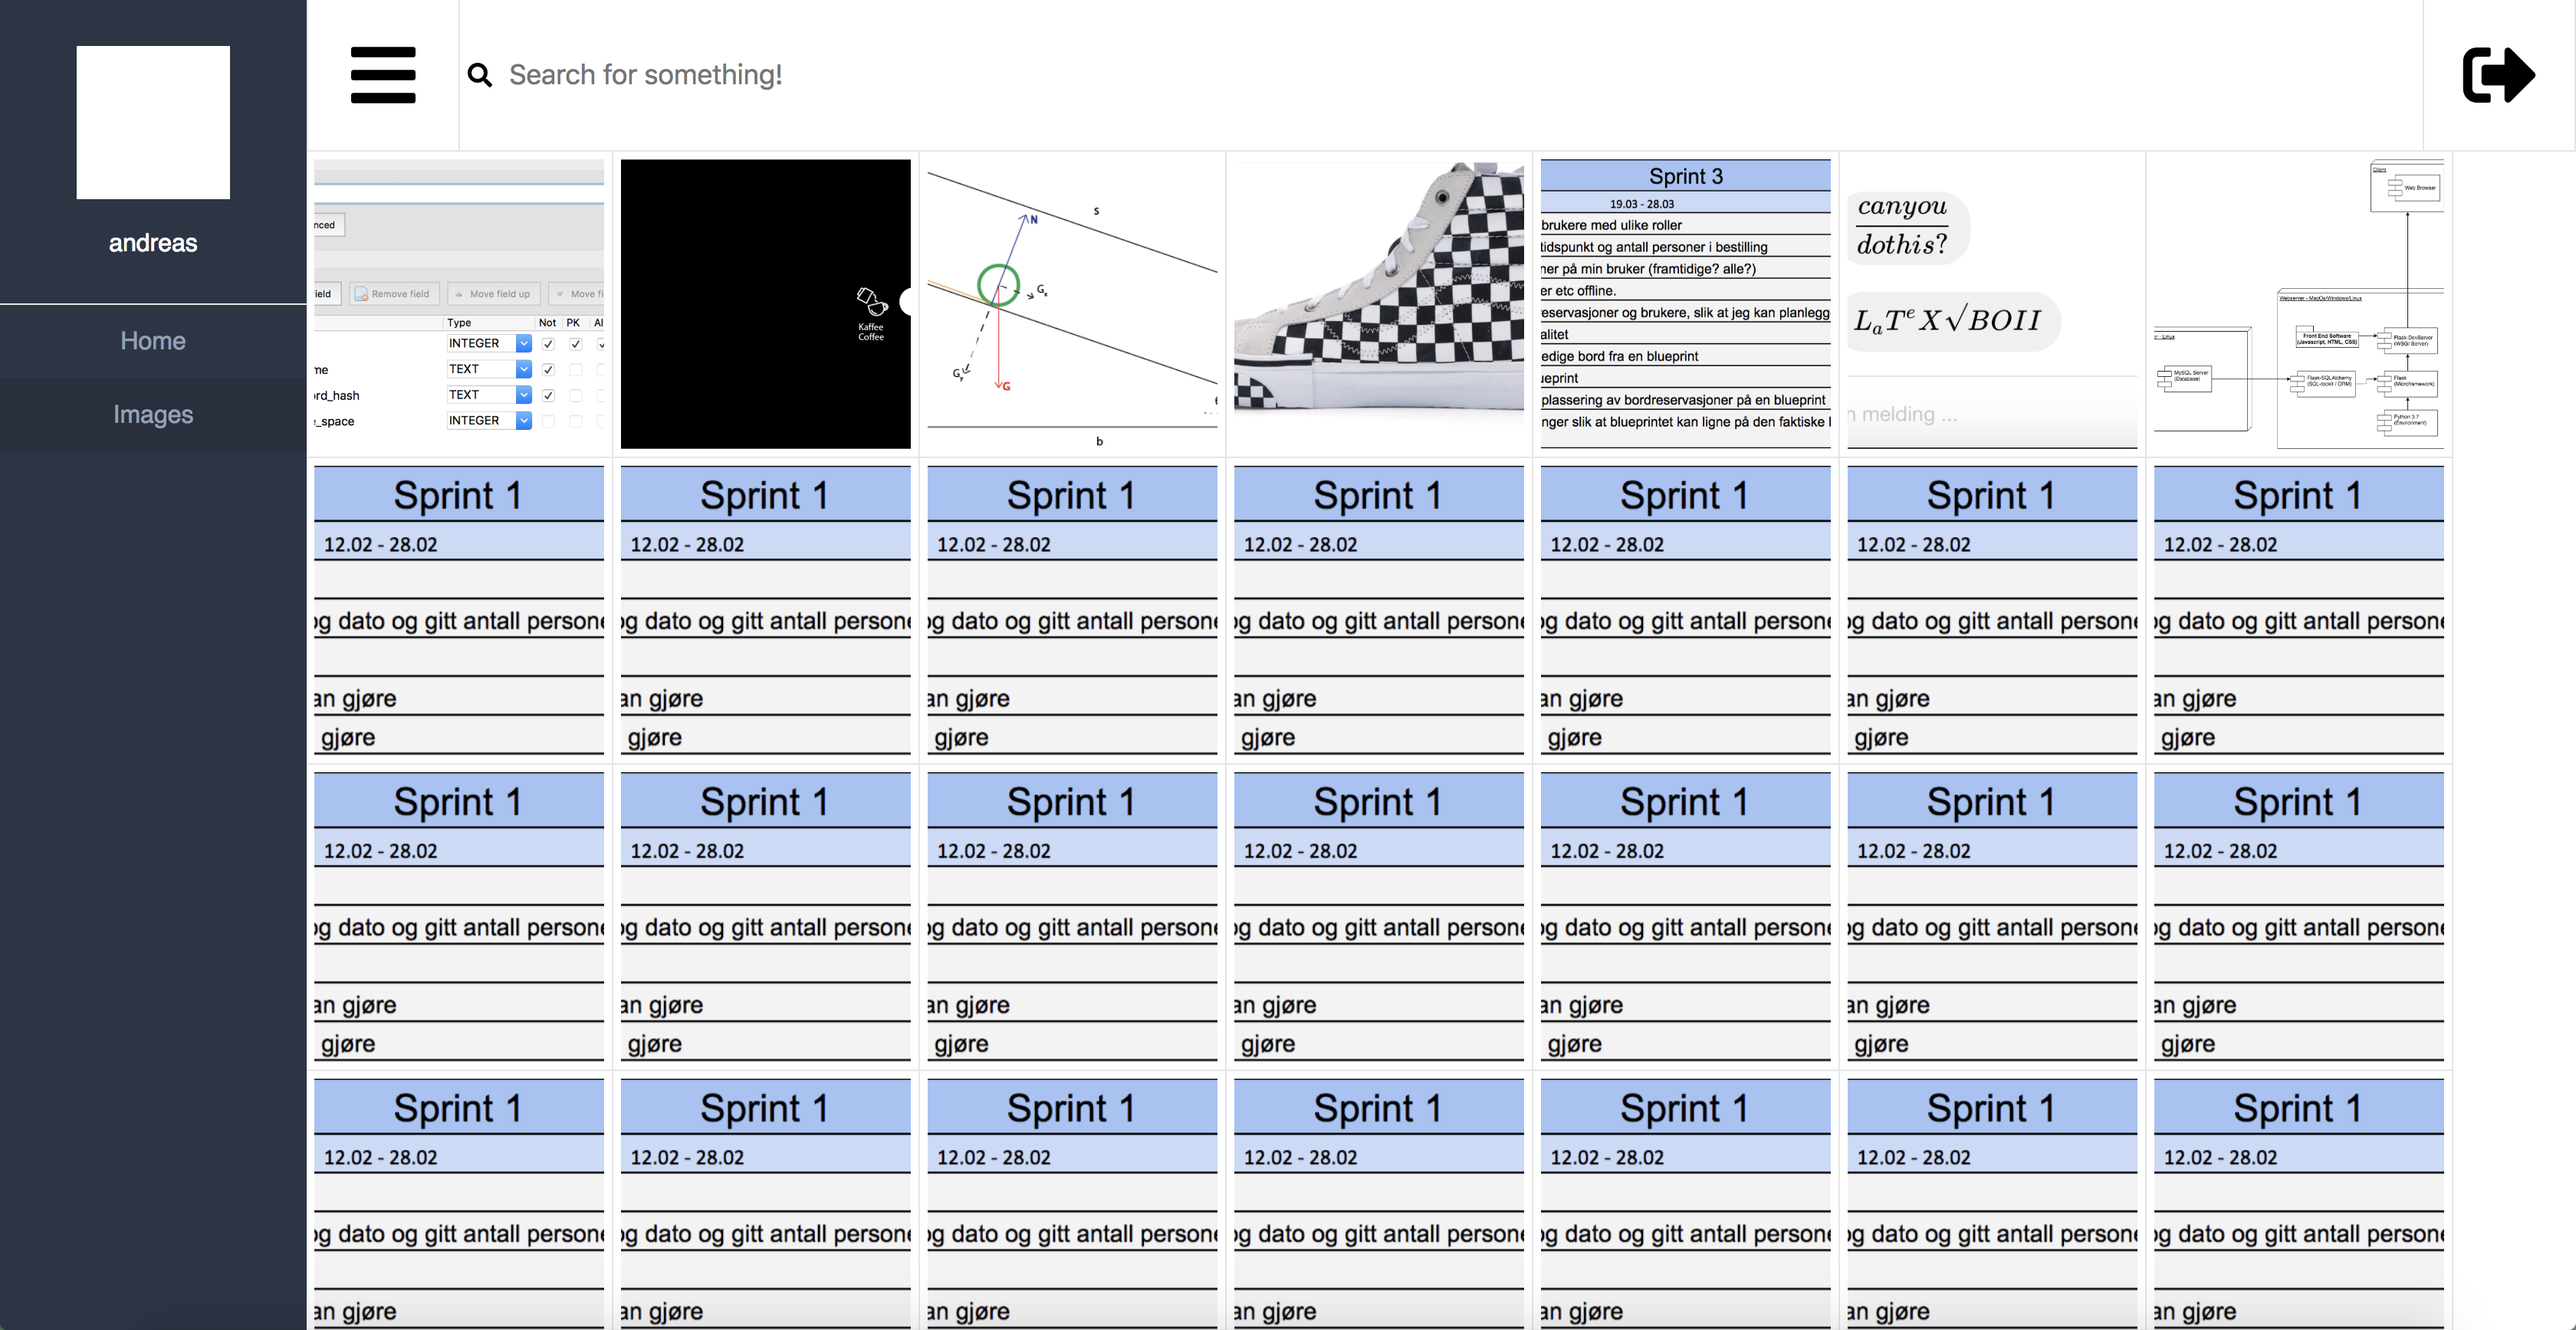
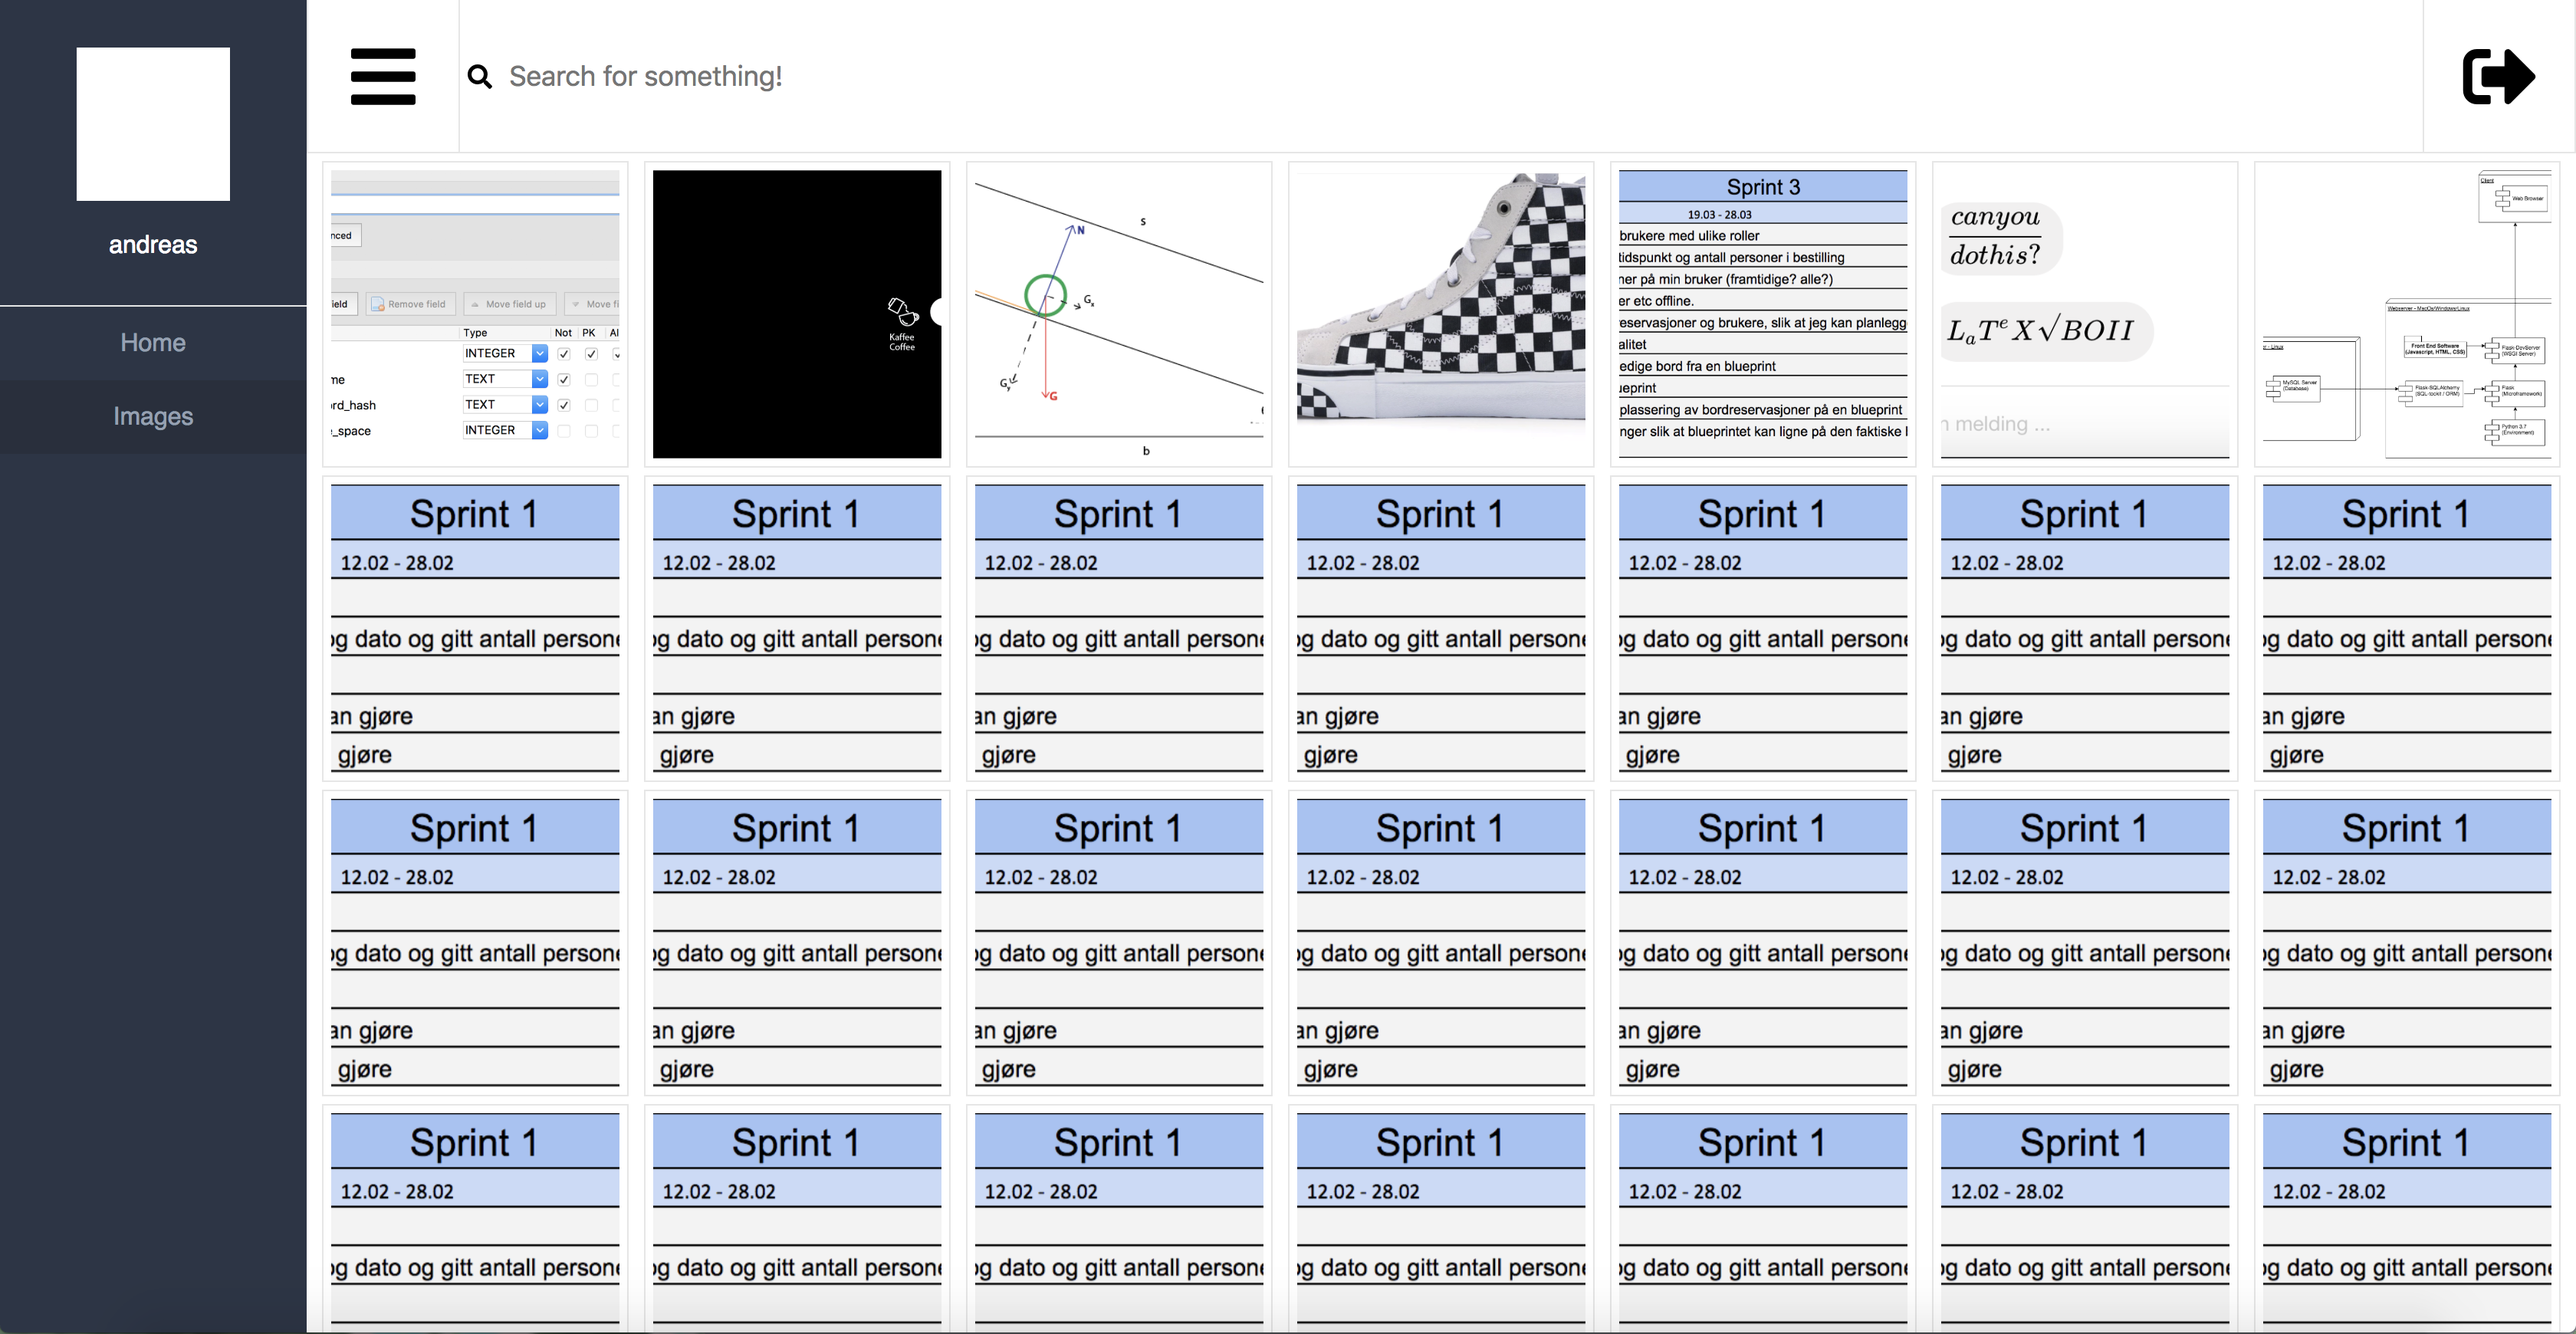
Made image grid look better and updated pics

diff --git a/host/static/css/style.css b/host/static/css/style.css
@@ -296,7 +296,10 @@ html, body {
 
 #links-content {
     display: grid;
-    grid-template-columns: repeat(auto-fit, 200px);;
+    grid-template-columns: repeat(auto-fit, 200px);
+    justify-content: space-evenly;
+    grid-row-gap: 5px;
+    padding-top: 5px;
 }
 
 #links-content img {
@@ -307,7 +310,8 @@ html, body {
     height: 100%;
     padding: 5px;
     box-sizing: border-box;
-    border-right: 1px #e6e6e6 solid;
+    border: 1px #e6e6e6 solid;
+    border-left: 1px #e6e6e6 solid;
     border-bottom: 1px #e6e6e6 solid;
 }
 #links-thumbnail {
